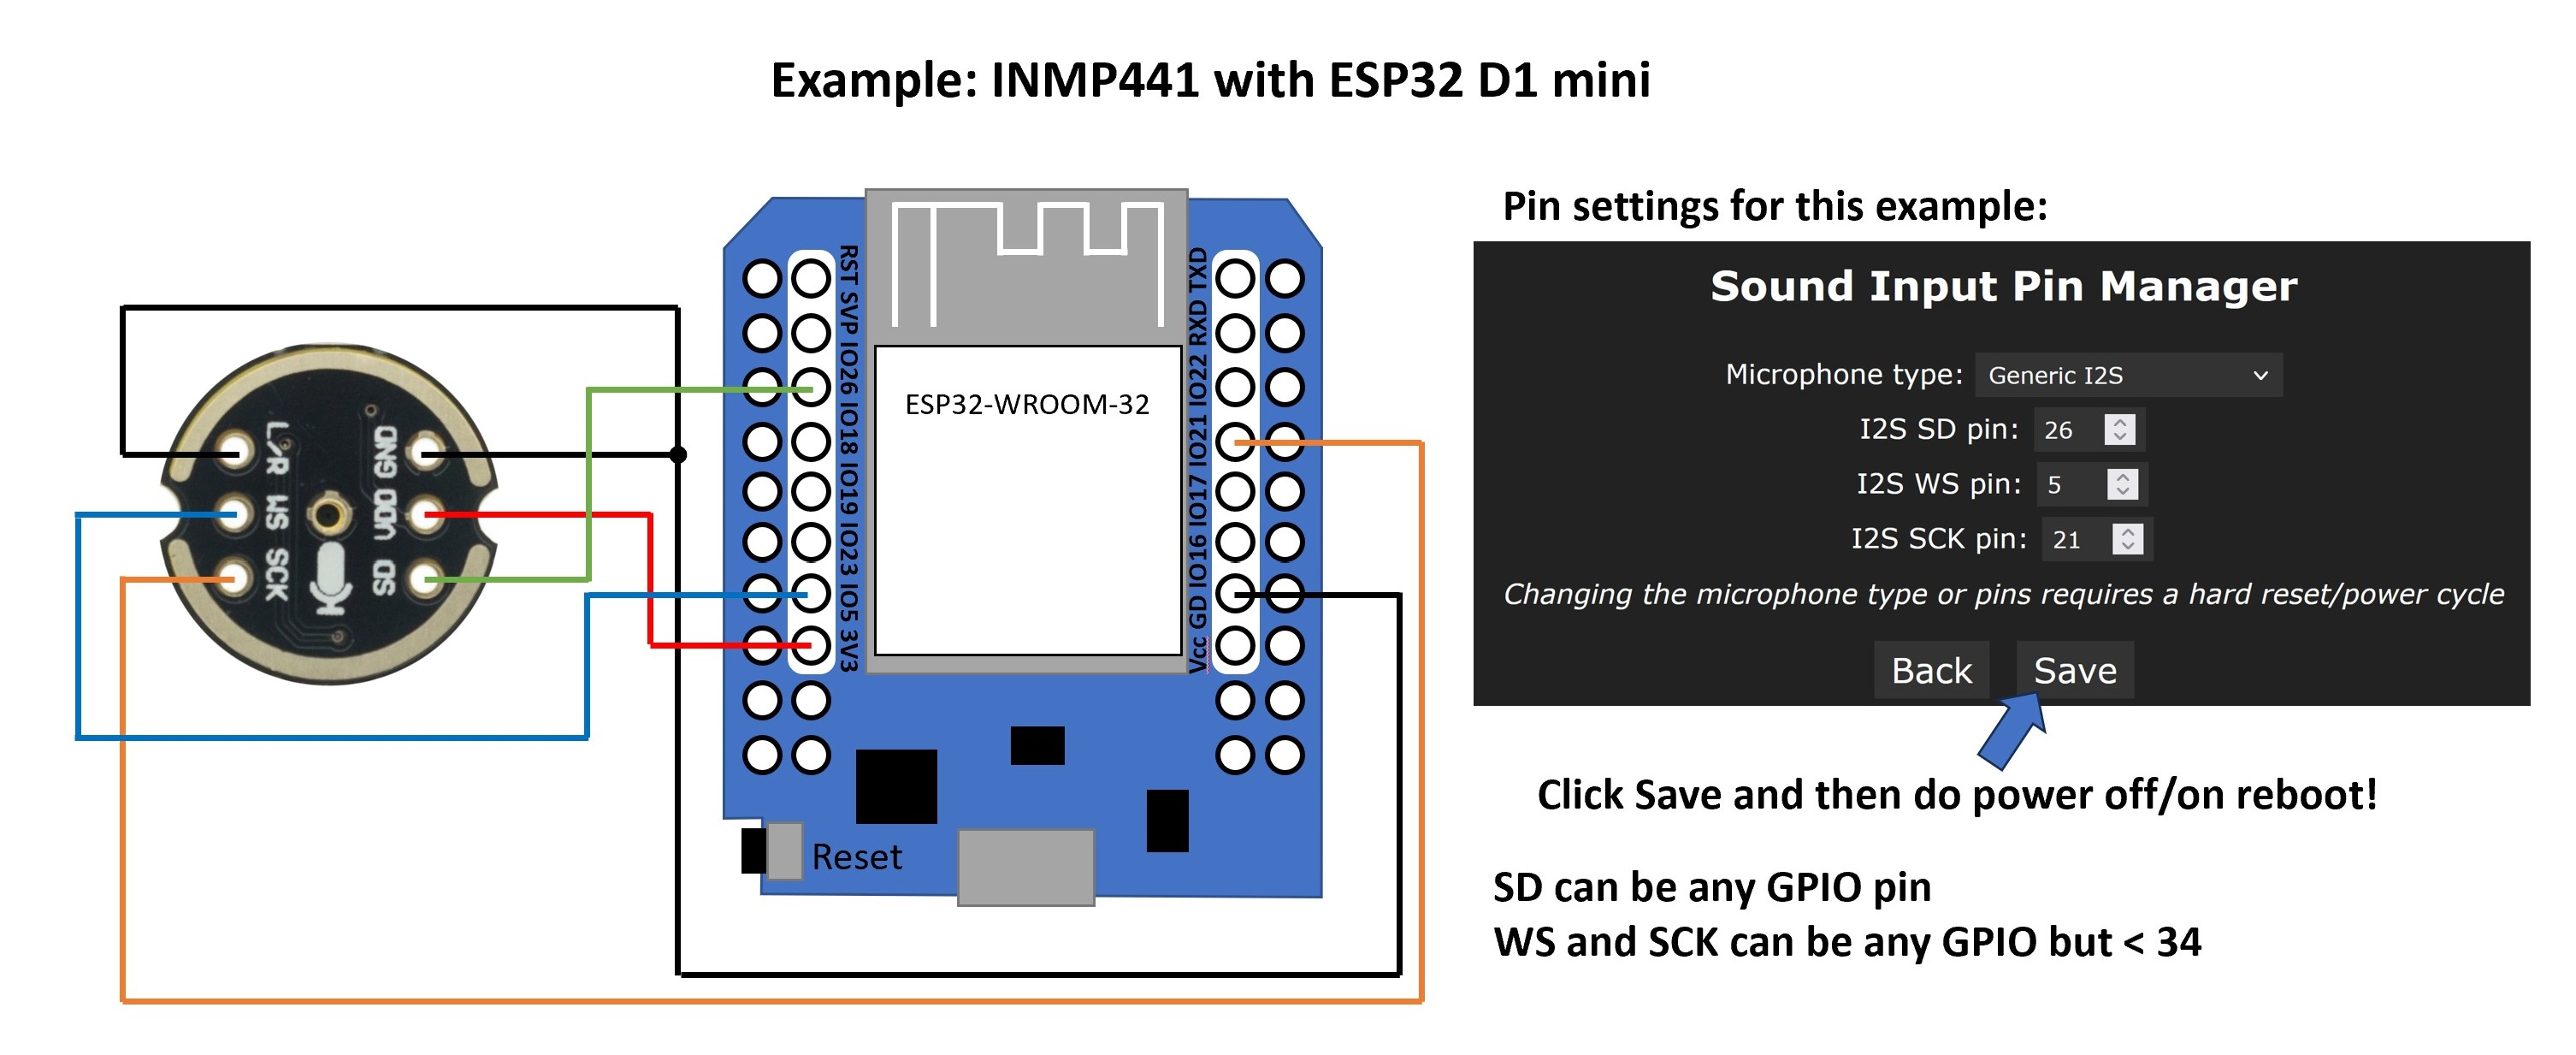
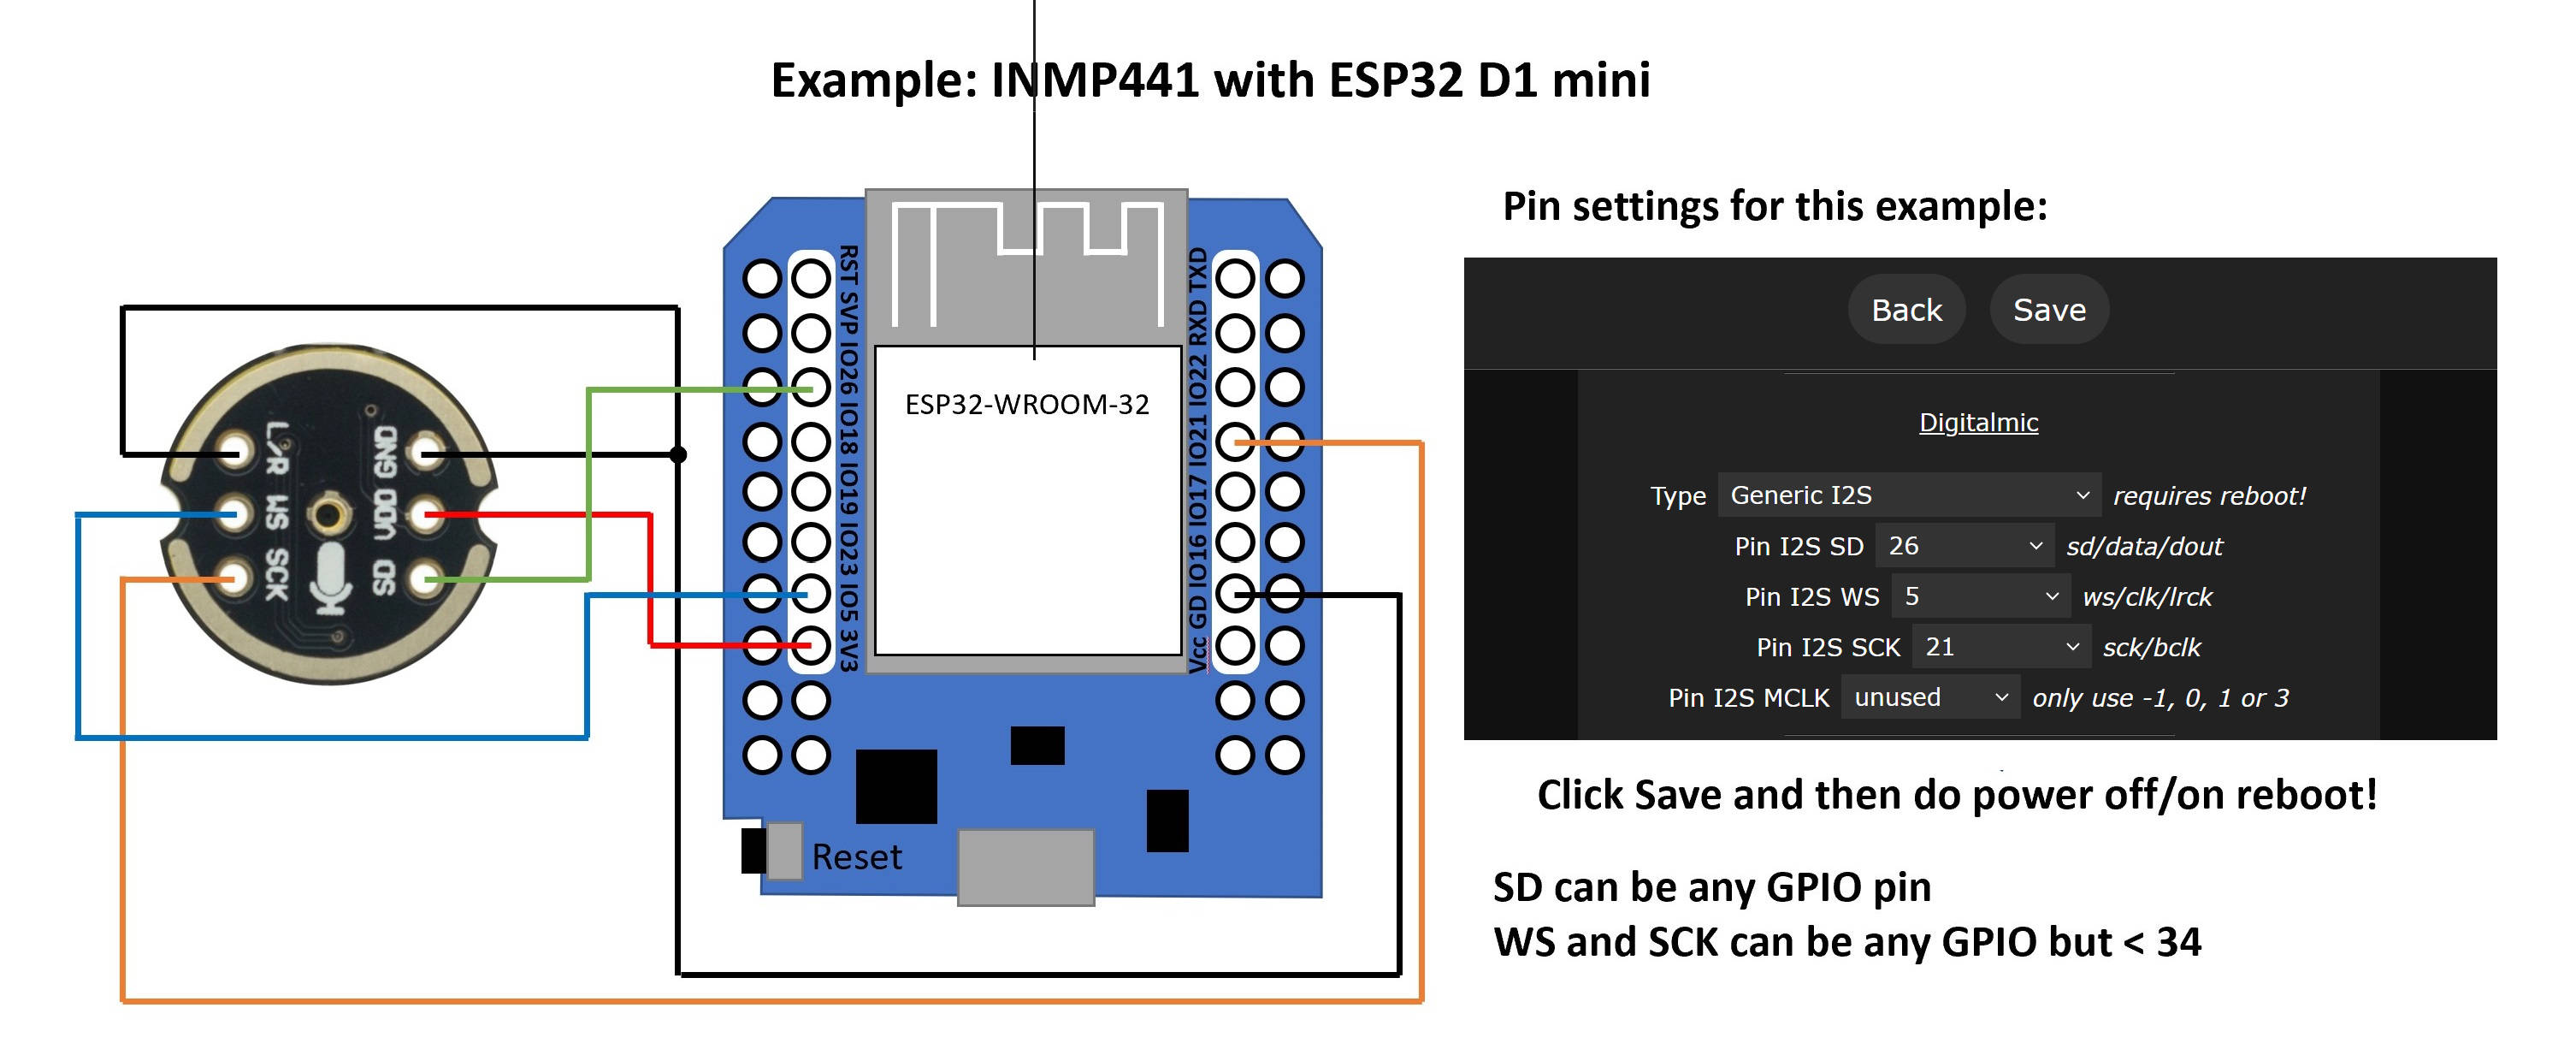
corrections and improvements for audio-reactive.md
* added some clarifications, caveats and useful hints
* link to WLED-MM documentation for additional information

Changed region(s): [[0.5618, 0.2157, 0.9987, 0.7397]]

diff --git a/docs/advanced/audio-reactive.md b/docs/advanced/audio-reactive.md
@@ -9,6 +9,8 @@ hide:
 
 Audio Reactive WLED lets your LEDs react to music and sound in real time. Originally implemented as the [Sound Reactive Fork](https://github.com/atuline/WLED), audio reactivity became an official usermod in WLED 0.14.0 and has been included in every official release since 0.15.0.
 
+An advanced version of AudioReactive is available in the [WLED-MM fork](https://github.com/MoonModules/WLED-MM). It will be integrated in the next major WLED release, v17.0.0.
+
 ## Hardware Required
 
 Audio must be fed into the microcontroller. There are four options: a microphone, a line-in adapter, another WLED instance, or a PC running audio-sync software.
@@ -18,10 +20,14 @@ Audio must be fed into the microcontroller. There are four options: a microphone
 Audio Reactive (AR) works across the ESP family, with a few differences per variant:
 
 - **Classic ESP32** — full support: digital and analog microphones
-- **ESP32-S3** — digital and PDM microphones only
-- **ESP32-S2** — digital microphones only (no PDM)
-- **ESP32-C3** — digital microphones only (since WLED v16.0)
+- **ESP32-S3** — I2S digital and PDM microphones only
+- **ESP32-S2** — I2S digital microphones only (no PDM)
+- **ESP32-C3** — I2S digital microphones only (since WLED v16.0)
 - **ESP8266** — no microphone input; can participate in AR via network sync (receive mode only)
+
+!!! Note "Left Channel"
+    Both digital microphones and line-in adapters must provide sound input via the LEFT audio channel.
+    For the INMP441, this is achieved by wiring the 'L/R' connection to GND (ground).
 
 ### Microphones
 
@@ -56,6 +62,10 @@ These are the simplest to wire (just 3.3 V, GND, and one ADC pin), but the quali
 !!! warning "Analog microphones and analog buttons are mutually exclusive"
     WLED can use an analog microphone **or** [analog buttons](/features/macros/#analog-button), but not both at the same time.
 
+!!! failure "Don't Waste Your Money on Cheapest Hardware"
+    Some inexpensive sound sensors, such as the LM393, KY-038 or KY-037, only have an on/off output (i.e. they detect either "sound" or "silence"). Sometimes, there is an additional "analogue data out" pin, but the quality is extremely low.  
+     These "clap sensors" cannot be used with AudioReactive.
+
 ### Line-In Options
 
 Both analog and digital line-in work with the line-out / headphone-out of a sound system, TV, phone, etc.
@@ -63,6 +73,8 @@ Both analog and digital line-in work with the line-out / headphone-out of a soun
 #### Line-In to I2S Adapter — Best Option
 
 An analog-to-I2S adapter (using chips such as the CirrusLogic CS5343, TI PCM1808, or ES7243) converts the analog line signal to a clean digital I2S stream. This works the same as a digital I2S microphone in WLED, but you'll need an extra GPIO for MCLK (Master Clock). On ESP32, MCLK can only be generated on GPIOs 0, 1, or 3. Because MCLK is a high-frequency signal, keep those wires very short.
+
+The WLED-MM documentation provides further information on how to [connect commonly used I2S line-in adapters](https://mm.kno.wled.ge/soundreactive/Line-Input/).
 
 An example board with integrated line-in is the [LyraT](https://docs.espressif.com/projects/esp-adf/en/latest/design-guide/dev-boards/board-esp32-lyrat-v4.3.html).
 
@@ -83,13 +95,15 @@ For more detail, see the [Sound Reactive WLED Wiki](https://mm.kno.wled.ge/sound
 
 ## Configuration
 
-The Audio Reactive settings page (**Config → Audio Reactive**) lets you tune how WLED responds to sound. The most important controls are Squelch, Gain, and AGC.
+The Audio Reactive settings page (**Config → Usermods, AudioReactive**) lets you tune how WLED responds to sound. The most important controls are Squelch, Gain, and AGC.
 
 ### Squelch
 
 Squelch sets the noise floor — the minimum signal level that WLED treats as "sound". Any input below this threshold is ignored, so your LEDs stay still during silence instead of flickering from background noise.
 
 Start with a higher squelch value and lower it until the LEDs just stop reacting to ambient noise in your room. A good squelch value means no activity in silence, but an instant response when music starts.
+
+For digital microphones, **squelch** is usually somewhere between 1 and 20. You might have to go up 64 with analog microphones to cut out noise.
 
 ### Gain
 
@@ -112,10 +126,10 @@ Four modes are available:
 
 ### First-Time Setup
 
-Here's a reliable method for dialling in squelch and gain on a new device:
+Once your microphone or line-in is set up, here's a reliable method for dialling in squelch and gain on a new device:
 
-1. Select the **\*Gravimeter** effect and leave its sliders at their default positions.
-2. Go to **Config → Audio Reactive**.
+1. Select the **Gravimeter** effect and leave its sliders at their default positions.
+2. Go to **Config → Usermods** and scroll down to the **AudioReactive** section.
 3. Set **Gain** to a high value (e.g. 200+), set **Squelch** to `1`, and turn **AGC** off. Save.
 4. The LEDs should now react to almost anything, even ambient noise.
 5. In a quiet environment, **gradually increase Squelch** (saving each time) until the LEDs stop reacting to background noise.
@@ -128,7 +142,7 @@ You don't need a microphone on every WLED device. One device captures the audio 
 
 ### WLED-to-WLED Sync
 
-In the Audio Reactive settings, set one device to **Send** mode and all others to **Receive**. The sending device multicasts audio data to UDP multicast address `239.0.0.1`, default port `11988`. All receiving devices on the same network pick it up automatically.
+In the AudioReactive settings, set one device to **Send** mode and all others to **Receive**. The sending device multicasts audio data to UDP multicast address `239.0.0.1`, default port `11988`. All receiving devices on the same network pick it up automatically.
 
 You can change the UDP port in the Audio Reactive settings — useful if you want to run multiple independent sync groups on the same network.
 
@@ -147,17 +161,19 @@ Any of the following tools can capture audio from your computer, process it into
 | [Feed\_My\_WLED](https://github.com/chrisgott/feed_my_wled) | macOS / Linux | Python script; good choice for non-Windows users. |
 | [WLEDAudioSync for Chataigne](https://github.com/zak-45/WLEDAudioSync-Chataigne-Module) | Cross-platform | Feature-rich audio toolset for [Chataigne](https://benjamin.kuperberg.fr/chataigne/); suits complex setups. |
 
+Learn more about the **UDP sound Sync** feature in the [documentation of the MM-fork](https://mm.kno.wled.ge/soundreactive/sync/).
+
 ## Audio Reactive Palettes
 
 Most WLED effects that support palette colouring (the majority of them) pick colours by looking up a position in the active palette. Audio Reactive takes advantage of this by providing three special palettes whose colours are driven by live audio data — so any palette-aware effect automatically becomes audio responsive when one of these palettes is selected.
 
 ### Enabling the Palettes
 
-The palettes are off by default. To enable them, go to **Config → Audio Reactive** and turn on **Add Palettes**. This adds three new entries to the palette list, all prefixed with `AudioReactive:`.
+The palettes are off by default. To enable them, go to **Config → Usermods, AudioReactive** and turn on **Add Palettes**. This adds three new entries to the palette list, all prefixed with `AudioReactive:`.
 
 _This feature was contributed by [@netmindz](https://github.com/netmindz)._
 
-### The Three Palettes
+#### The Three Palettes
 
 Each palette is a four-stop dynamic gradient that is recalculated every frame from the current FFT frequency data.
 
@@ -167,7 +183,7 @@ Each palette is a four-stop dynamic gradient that is recalculated every frame fr
 | **AudioReactive: Hue** | Maps palette position across the lower frequency bands. Each band's amplitude sets both the hue and brightness, giving a colour that shifts with the dominant low frequency. |
 | **AudioReactive: Spectrum** | Maps palette position across all 16 GEQ frequency channels. Each channel's amplitude drives the hue for its slice of the palette, so the full frequency spectrum is visible as colour. |
 
-### Tips
+#### Tips
 
 - These palettes work with **any** effect that reads from the active palette — not just effects designed for audio. Try them with effects like Fire, Noise, or Plasma to get audio-driven colour without needing a dedicated AR effect.
 - Because the palette refreshes every frame, the colour changes are as fast and smooth as your audio input.